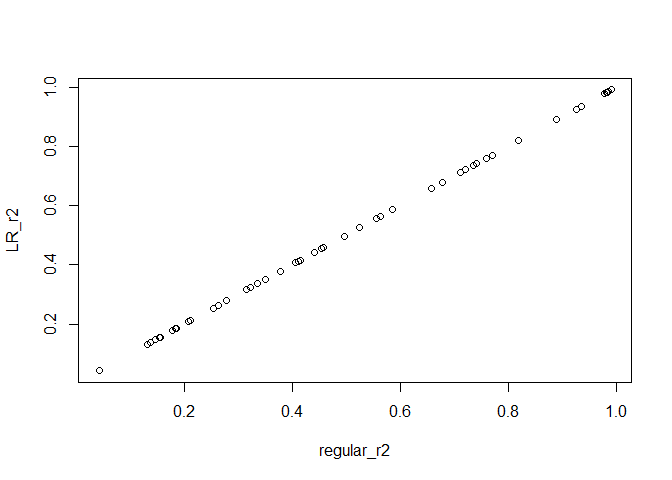
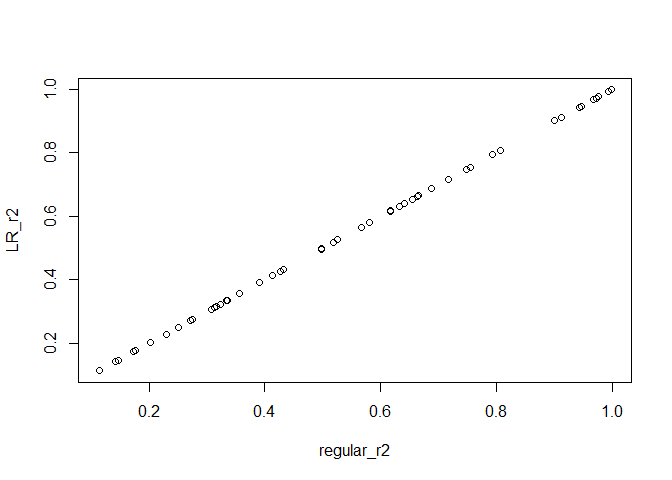
update to LR r²

diff --git a/Markdowns/pseudo_r2s.md b/Markdowns/pseudo_r2s.md
@@ -14,7 +14,8 @@ plot(y ~ x)
 
 ![](pseudo_r2s_files/figure-gfm/unnamed-chunk-1-1.png)<!-- -->
 
-Now lets compute the regular coefficient of determination
+Now lets compute the regular coefficient of determination, including
+using a function from package MuMIn
 
 ``` r
 model <- lm(y~x)
@@ -23,7 +24,47 @@ model0 <- lm(y~1)
 regular_r2 <- summary(model)$r.squared
 mcfadden_r2 <- c(1 - (logLik(model)/logLik(model0)))
 LR_r2 <- (deviance(model0) - deviance(model))/ deviance(model0)
+
+#Another way to compute if we do not have access to the deviance
+
+n<-length(y)
+
+LR_r2_2 <- 1 - exp( - (2/n)  * ( (logLik(model)) -  logLik(model0) ) )
+
+#Package MuMIn has a function to calculate LR R²
+library(MuMIn)
+LR_r2_3 <- r.squaredLR(model)
+
+regular_r2
 ```
+
+    ## [1] 0.6352171
+
+``` r
+LR_r2
+```
+
+    ## [1] 0.6352171
+
+``` r
+LR_r2_2
+```
+
+    ## 'log Lik.' 0.6352171 (df=3)
+
+``` r
+LR_r2_3
+```
+
+    ## [1] 0.6352171
+    ## attr(,"adj.r.squared")
+    ## [1] 0.6352293
+
+``` r
+mcfadden_r2
+```
+
+    ## [1] 0.09288576
 
 Now lets simulate some scenarios and see how things vary according to a
 large variation in r² values.
